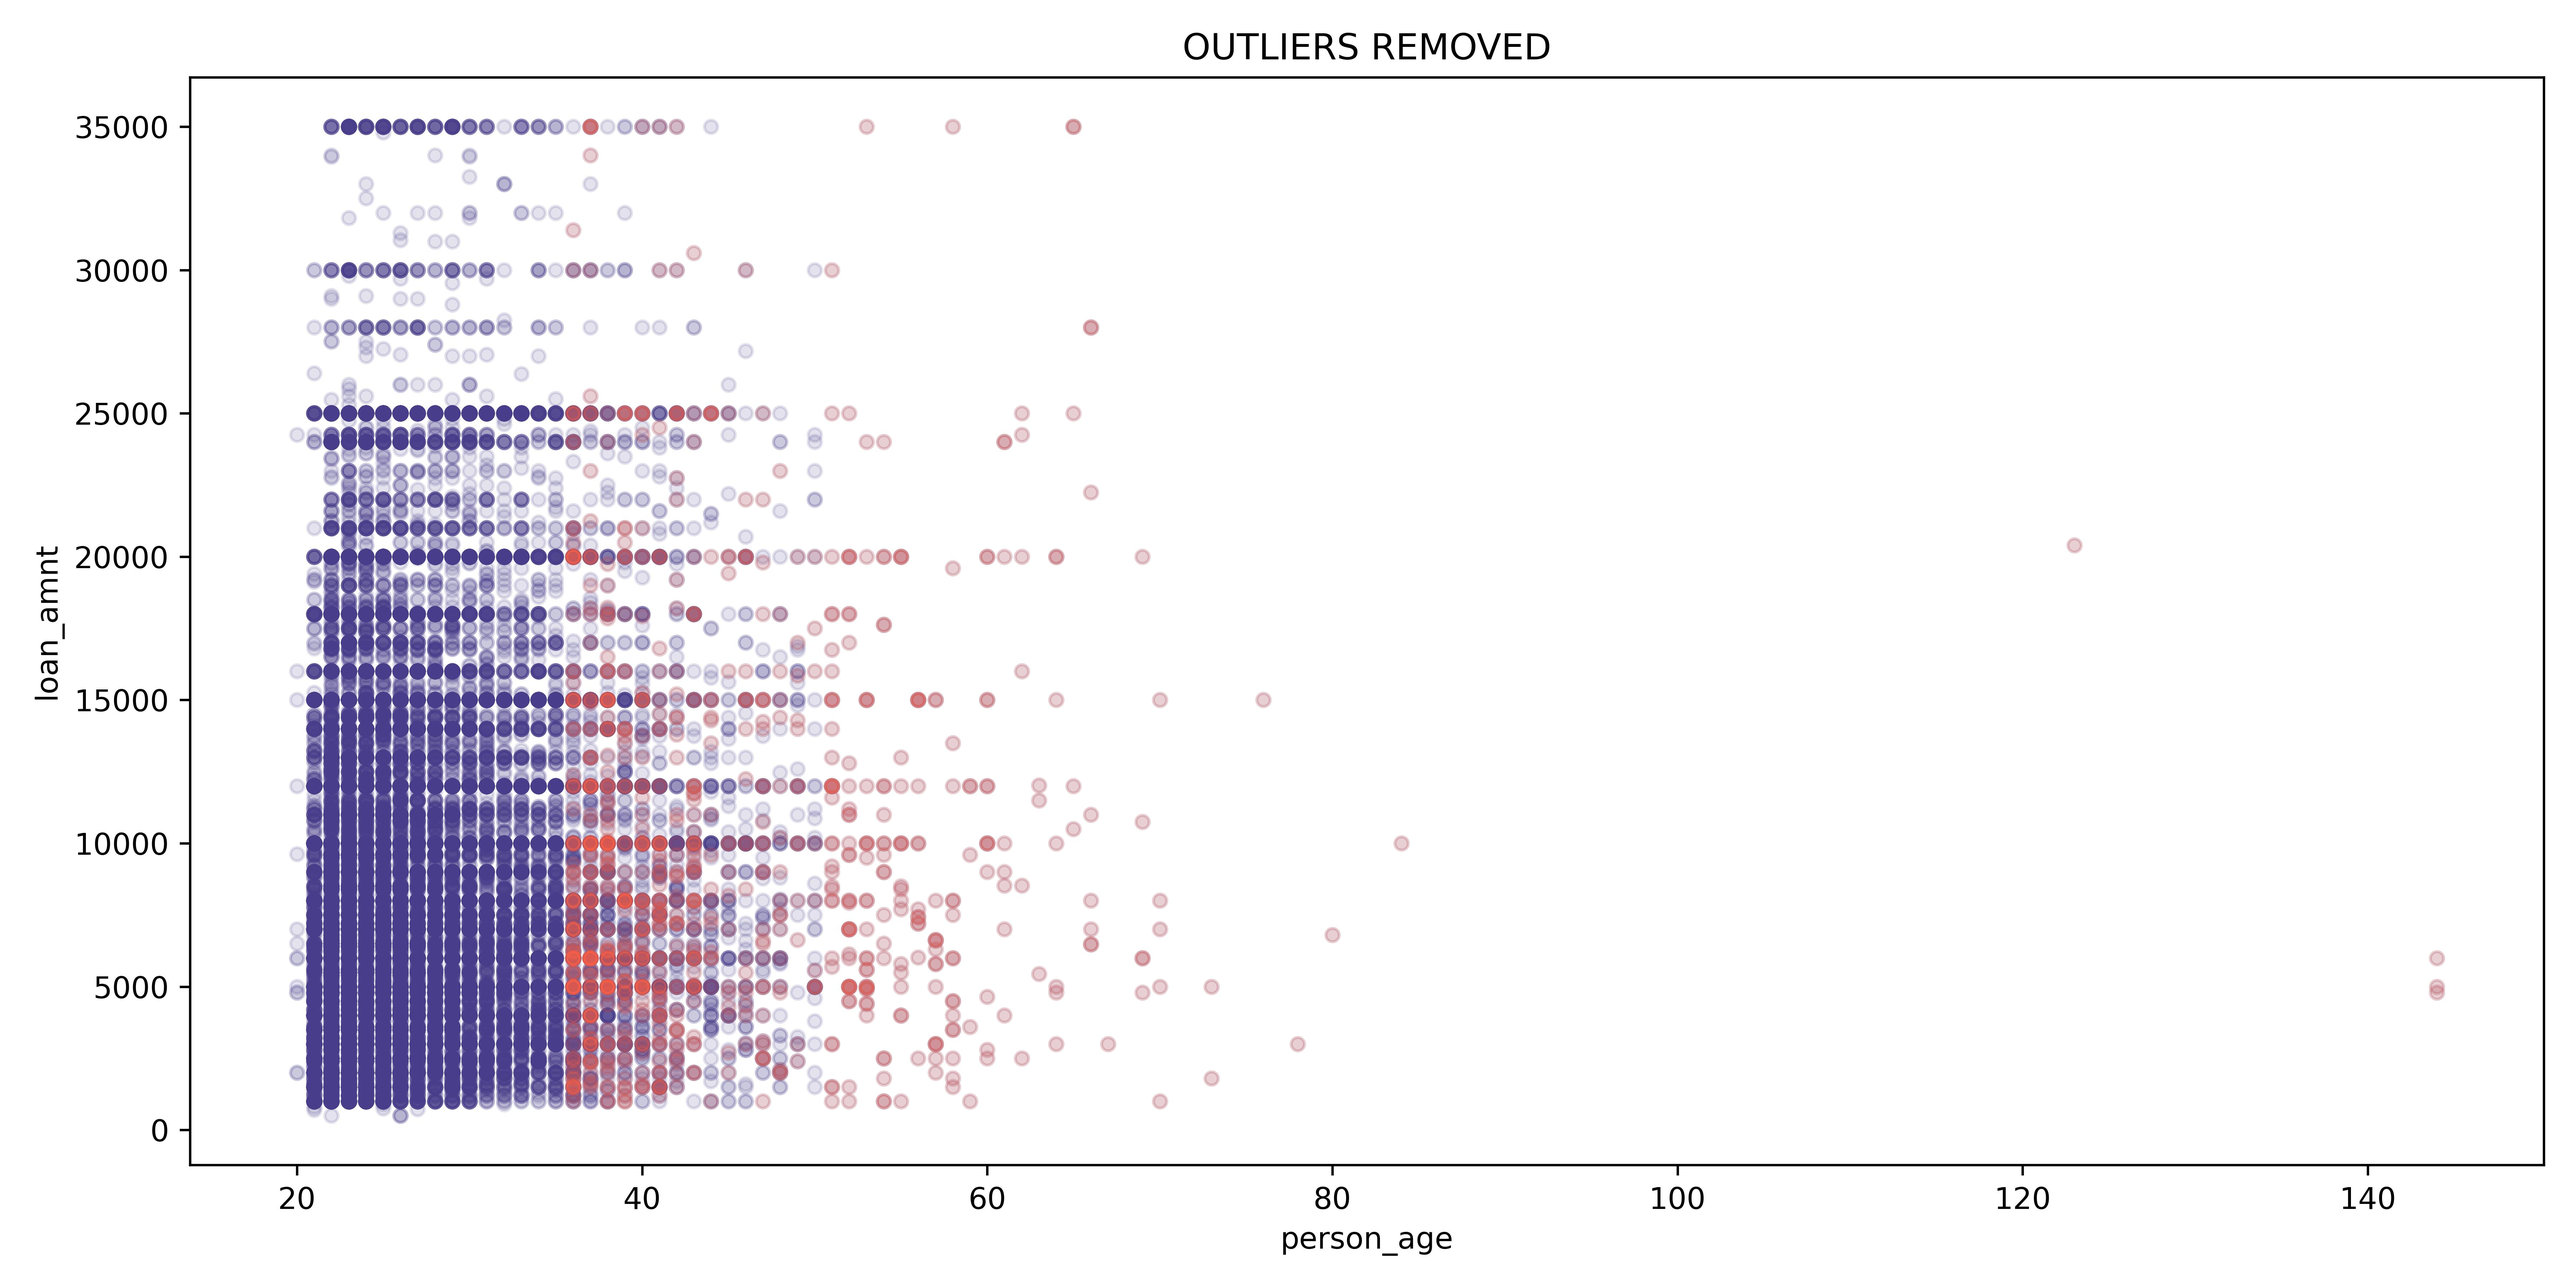
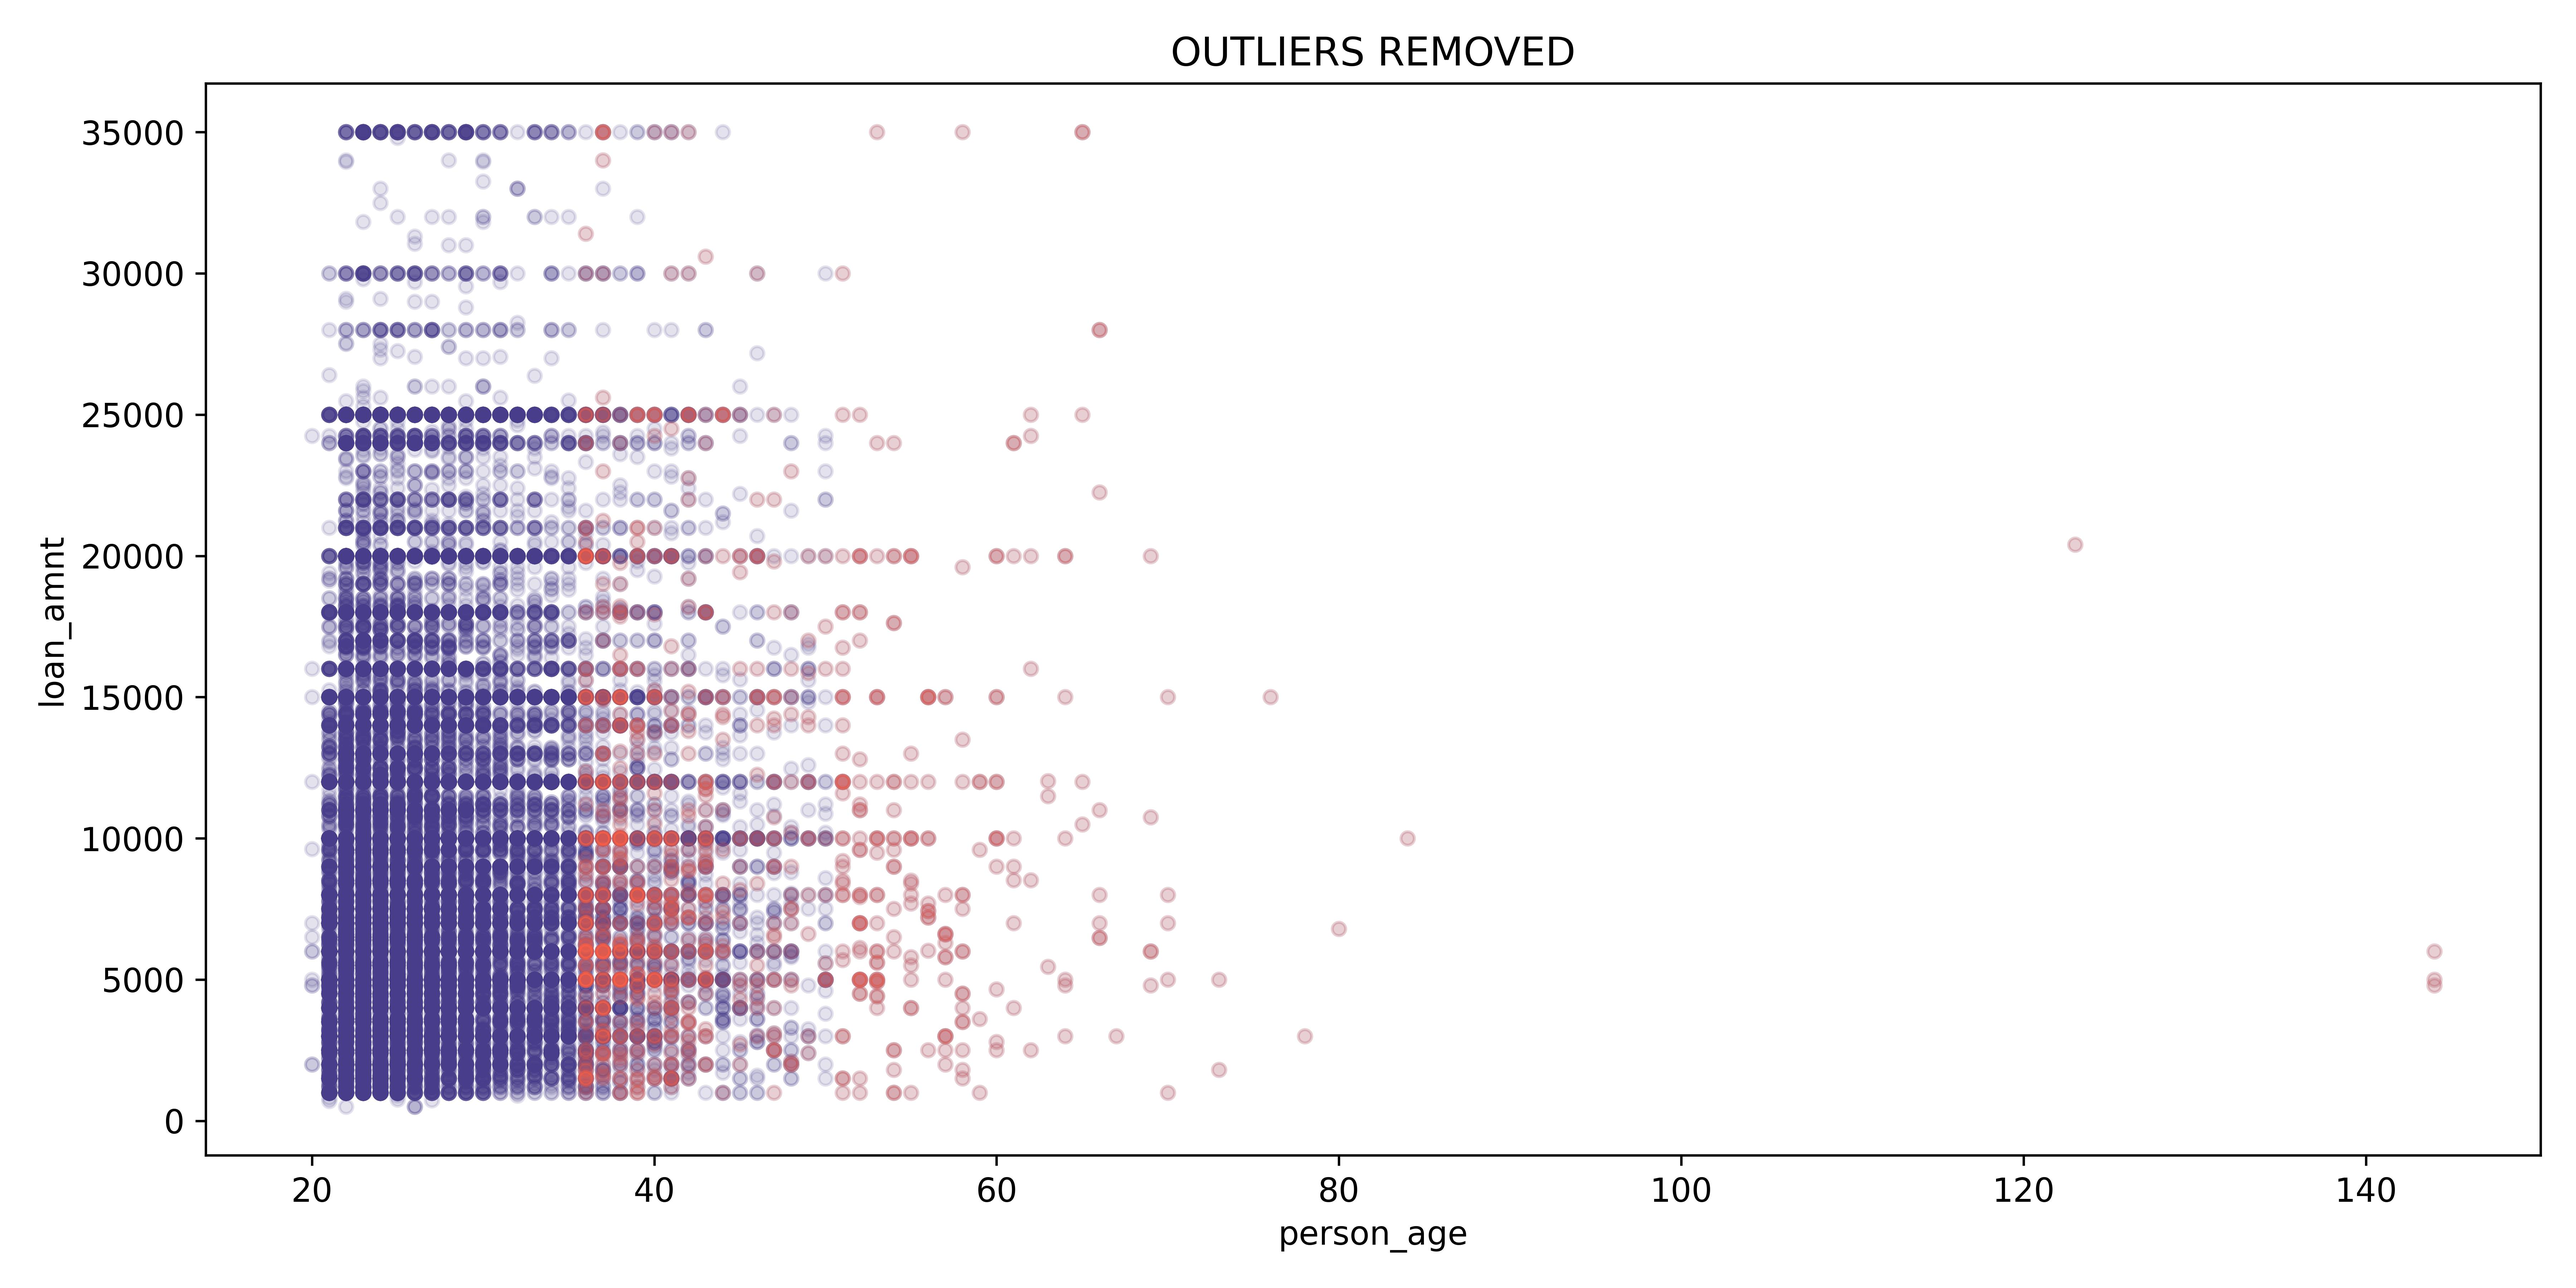
update outlier cleaning method

diff --git a/data_cleansing.py b/data_cleansing.py
@@ -248,12 +248,13 @@ class Data_cleansing:
             plt.savefig(f'1_results/0_outliers_1.jpeg')
         
         # loan amount x age outliers
-        fig, ax = plt.subplots(figsize=(16, 8), dpi=300)
+        fig, ax = plt.subplots(figsize=(18, 8), dpi=300)
      
         boxplot(x='person_age', y='loan_amnt', data=df_data, palette='flare')
         
         plt.rcParams.update({'font.size': 11})
         plt.xlabel('person age', fontsize=15)
+        plt.xticks(rotation = 20)
         
         plt.tight_layout()
         

diff --git a/main.py b/main.py
@@ -19,8 +19,8 @@ Path('./1_results').mkdir(exist_ok=True)
 db_cleansing = Data_cleansing(client, data_base, collection)
 db_cleansing.copy_db_bkp()
 db_cleansing.data_cleansing_nan()
-db_cleansing.data_cleansing_outlier()
 db_cleansing.box_plot()
+db_cleansing.data_cleansing_outlier()
 # ----------------------------------------------------------------------------
 
 # data base entry
